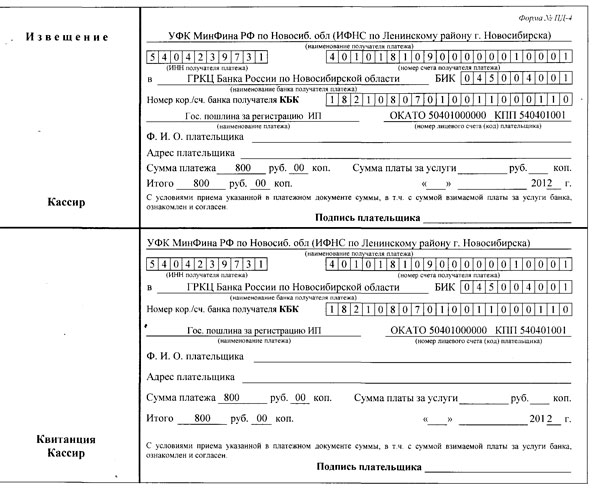
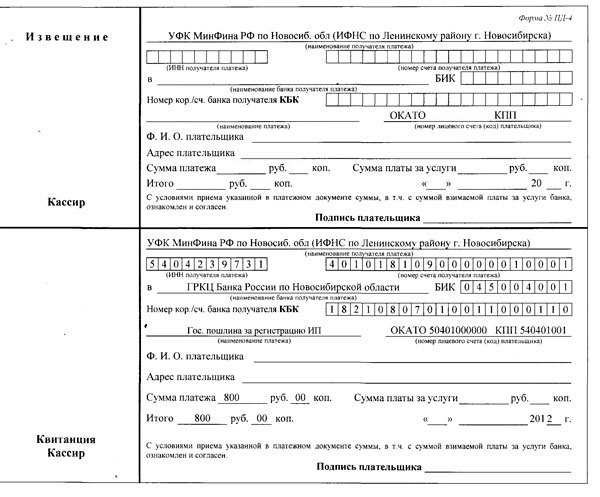
Пол дела

diff --git a/kvit.css b/kvit.css
@@ -43,35 +43,150 @@ table {
 	border-spacing: 0;
 }
 .background {
+	position: relative;
 	margin: 0 auto;
 	width: 600px;
 	height: 500px;
-background-image: url(img/kvit.jpg) ;
+	background-image: url(img/kvit.jpg) ;
 }
 input {
-	height: 10px;
-	border: 1px solid red;
+	position: absolute;
 	background-color: transparent;
-;
-
+	font-size: 7pt;
+	border:none;
 }
-.input-1 {
-	position: relative;
-	padding-top: 46px;
-	padding-left:146px;
+.input-1 input {
+	width: 118px;
+	height: 11px;
+	margin-top: 50px;
+	margin-left: 146px;
+	font-size: 10px;
+	letter-spacing: 7px;
+	padding-left: 3px;
 }
-.input-2 {
-	position: relative;
-	margin-top:-17px;
-	padding-left:325px;
+.input-2 input {
+	width: 247px;
+	height: 11px;
+	margin-top:50px;
+	margin-left:326px;
+	letter-spacing: 7px;
 }
-.input-3 {
-	position: relative;
-	margin-top: 3px;
-	padding-left:160px;
+.input-3 input {
+	width: 111px;
+	height: 11px;
+	margin-top:72px;
+	margin-left:462px;
+	letter-spacing: 7px;
 }
-.input-4 {
-	position: relative;
-	margin-top: -17px;
-	padding-left:460px;
+.input-4 input {
+	width: 245px;
+	height: 11px;
+	margin-top:93px;
+	margin-left:327px;
+	letter-spacing: 7px;
 }
+.input-bank-name input {
+	width: 262px;
+	height: 11px;
+	margin-top:71px;
+	margin-left:162px;
+	text-align: center;
+}
+.input-pay-name input {
+	width: 204px;
+	height: 11px;
+	margin-top:108px;
+	margin-left:150px;
+	text-align: center;
+}
+.input-OKATO input {
+	width: 64px;
+	height: 11px;
+	margin-top:108px;
+	margin-left:427px;
+	text-align: center;
+}
+.input-KPP input {
+	width: 44px;
+	height: 11px;
+	margin-top:108px;
+	margin-left:517px;
+	text-align: center;
+}
+.input-name input {;
+	width: 310px;
+	height: 11px;
+	margin-top:129px;
+	margin-left:255px;
+	text-align: center;
+}
+.input-adress input {
+	width: 320px;
+	height: 11px;
+	margin-top:145px;
+	margin-left:245px;
+	text-align: center;
+}
+.input-sum-rub-1 input{
+	width: 44px;
+	height: 11px;
+	margin-top:161px;
+	margin-left:220px;
+	text-align: center;
+}
+.input-sum-cop-1 input{
+	width: 15px;
+	height: 11px;
+	margin-top:161px;
+	margin-left:292px;
+	text-align: center;
+}
+.input-sum-rub-2 input{
+	width: 44px;
+	height: 11px;
+	margin-top:176px;
+	margin-left:180px;
+	text-align: center;
+}
+.input-sum-cop-2 input{
+	width: 15px;
+	height: 11px;
+	margin-top:176px;
+	margin-left:252px;
+	text-align: center;
+}
+.input-sum-rub-3 input{
+	width: 44px;
+	height: 11px;
+	margin-top:161px;
+	margin-left:461px;
+	text-align: center;
+}
+.input-sum-cop-3 input{
+	width: 15px;
+	height: 11px;
+	margin-top:161px;
+	margin-left:530px;
+	text-align: center;
+}
+.input-date-day input{
+	width: 18px;
+	height: 11px;
+	margin-top:176px;
+	margin-left:426px;
+	text-align: center;
+}
+.input-date-month input{
+	width: 62px;
+	height: 11px;
+	margin-top:176px;
+	margin-left:462px;
+	text-align: center;
+}
+.input-date-year input{
+	width: 18px;
+	height: 11px;
+	margin-top:176px;
+	margin-left:542px;
+	text-align: center;
+}	

diff --git a/kvit.html b/kvit.html
@@ -9,17 +9,62 @@
  <body>
    	<div class="background">
    		<div class="input-1">
-   			<input type="text" size="14">
+   			<input type="text">
    		</div>
    		<div class="input-2">
-   			<input type="text" size="34">
+   			<input type="text">
    		</div>
    		<div class="input-3">
-   			<input type="text" size="37">
+   			<input type="text">
    		</div>
    		<div class="input-4">
-   			<input type="text" size="13">
+   			<input type="text">
    		</div>
+      <div class="input-bank-name">
+        <input type="text">
+      </div>
+      <div class="input-pay-name">
+        <input type="text">
+      </div>
+      <div class="input-OKATO">
+        <input type="text">
+      </div>
+      <div class="input-KPP">
+        <input type="text">
+      </div>
+      <div class="input-name">
+        <input type="text">
+      </div>
+      <div class="input-adress">
+        <input type="text">
+      </div>
+      <div class="input-sum-rub-1">
+        <input type="text">
+      </div>
+      <div class="input-sum-cop-1">
+        <input type="text">
+      </div>
+      <div class="input-sum-rub-2">
+        <input type="text">
+      </div>
+      <div class="input-sum-cop-2">
+        <input type="text">
+      </div>
+      <div class="input-sum-rub-3">
+        <input type="text">
+      </div>
+      <div class="input-sum-cop-3">
+        <input type="text">
+      </div>
+      <div class="input-date-day">
+        <input type="text">
+      </div>
+      <div class="input-date-month">
+        <input type="text">
+      </div>
+      <div class="input-date-year">
+        <input type="text">
+      </div>
    	</div>
  </body>
 </html>
